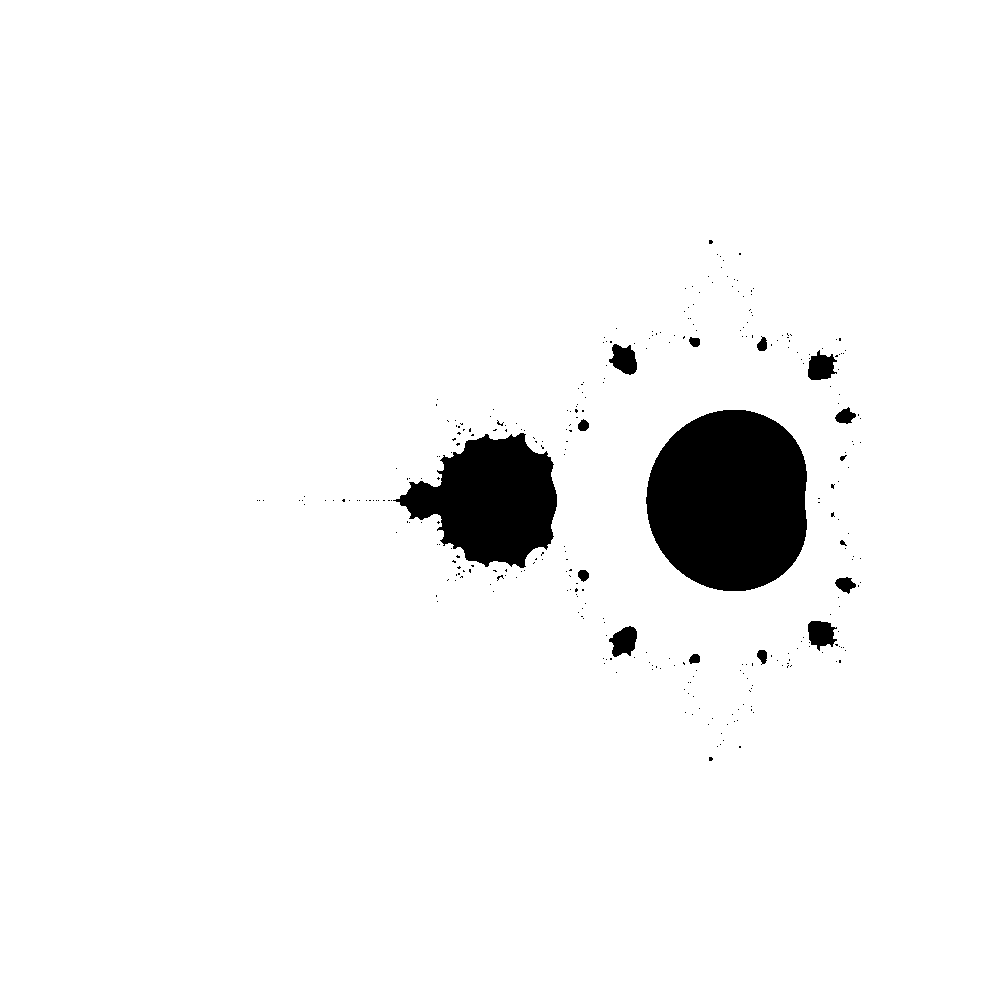
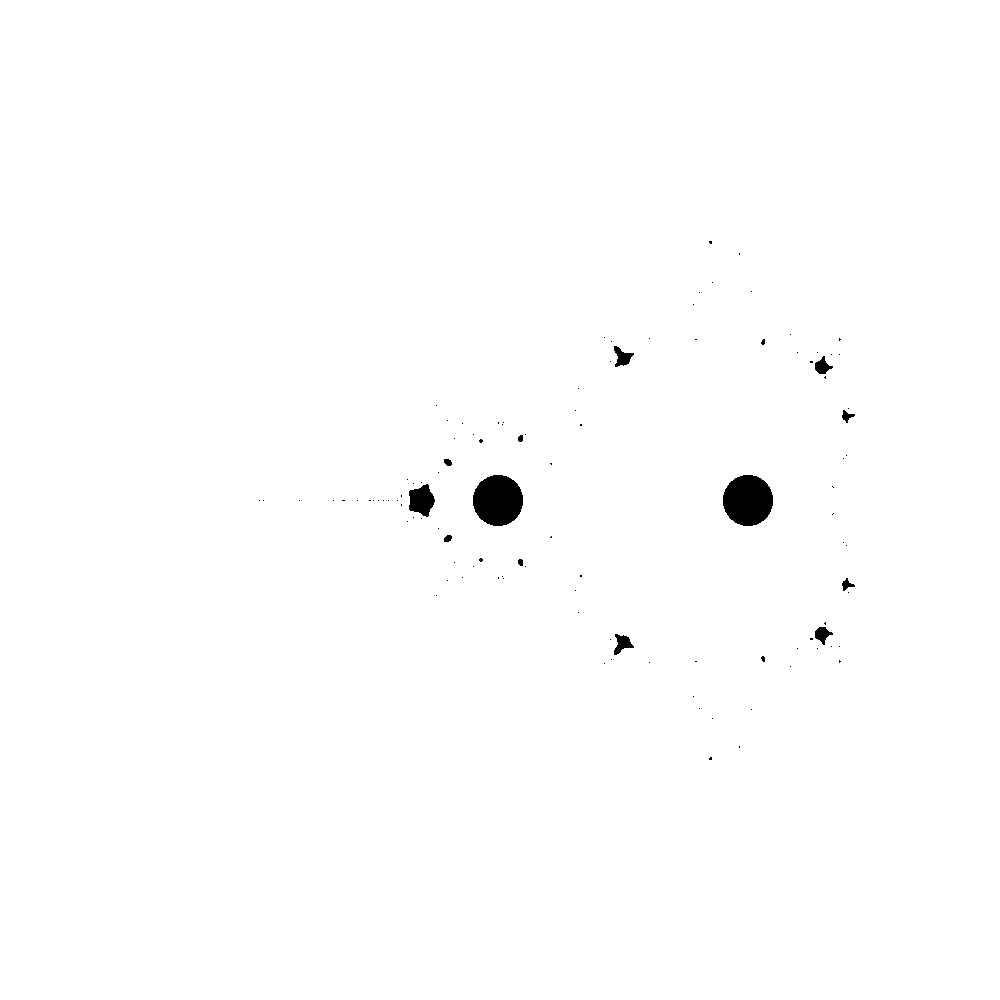
Swaps inputs and outputs around so that they better match the order of the pixel reference order x,y

diff --git a/mandelgo.go b/mandelgo.go
@@ -15,10 +15,10 @@ func main() {
     // work out conversion factors for going from the canvas position to the actual imaginary and 
     // real axis values you want
     // cIm is imaginary, cRe is real
-    cImMin := -2.0
-    cImMax := 2.0
     cReMin := -3.0
     cReMax := 1.0
+    cImMin := -2.0
+    cImMax := 2.0
     reCanvasConversion := (cReMax - cReMin)/float64(size)
     imCanvasConversion := (cImMax - cImMin)/float64(size)
 
@@ -30,7 +30,7 @@ func main() {
 	    // also need to be careful about how i and j grow across the canvas
 	    cRe := cReMin + float64(i)*reCanvasConversion
 	    cIm := cImMax - float64(j)*imCanvasConversion
-	    colour := escapeTest(cIm, cRe, 20, 0.1)
+	    colour := escapeTest(cRe, cIm, 20, 0.1)
 	    canvas.SetRGB(colour, colour, colour)
 	    canvas.SetPixel(i, j)
 	}
@@ -40,26 +40,26 @@ func main() {
 }
 
 // zIm,a is the imaginary component, zRe,cRe is the real
-func zCubed(zIm, zRe, cIm, cRe float64) (float64, float64) {
+func zCubed(zRe, zIm, cRe, cIm float64) (float64, float64) {
     zReNext := cRe - 3*math.Pow(zIm, 2)*zRe + math.Pow(zRe, 3)
     zImNext := cIm - math.Pow(zIm, 3) + 3*zIm*math.Pow(zRe, 2)
-    return zImNext, zReNext
+    return zReNext, zImNext 
 }
 
 // zIm,cIm is the imaginary component, zRe,cRe is the real
-func zSquared(zIm, zRe, cIm, cRe float64) (float64, float64) {
+func zSquared(zRe, zIm, cRe, cIm float64) (float64, float64) {
     zReNext := cRe - math.Pow(zIm, 2) + math.Pow(zRe, 2)
     zImNext := cIm + 2*zIm*zRe 
-    return zImNext, zReNext
+    return zReNext, zImNext 
 }
 
-func escapeTest(cIm, cRe float64, maxLoop int, threshhold float64) float64 {
-    zIm := 0.0
+func escapeTest(cRe, cIm float64, maxLoop int, threshhold float64) float64 {
     zRe := 0.0
+    zIm := 0.0
     for i := 0; i < maxLoop; i++ {
-	zIm, zRe = zSquared(zIm, zRe, cIm, cRe)
+	zRe, zIm = zSquared(zRe, zIm, cRe, cIm)
     }
-    if (math.Hypot(zIm, zRe)) < threshhold {
+    if (math.Hypot(zRe, zIm)) < threshhold {
 	return 0.0
     }
     return 1.0
